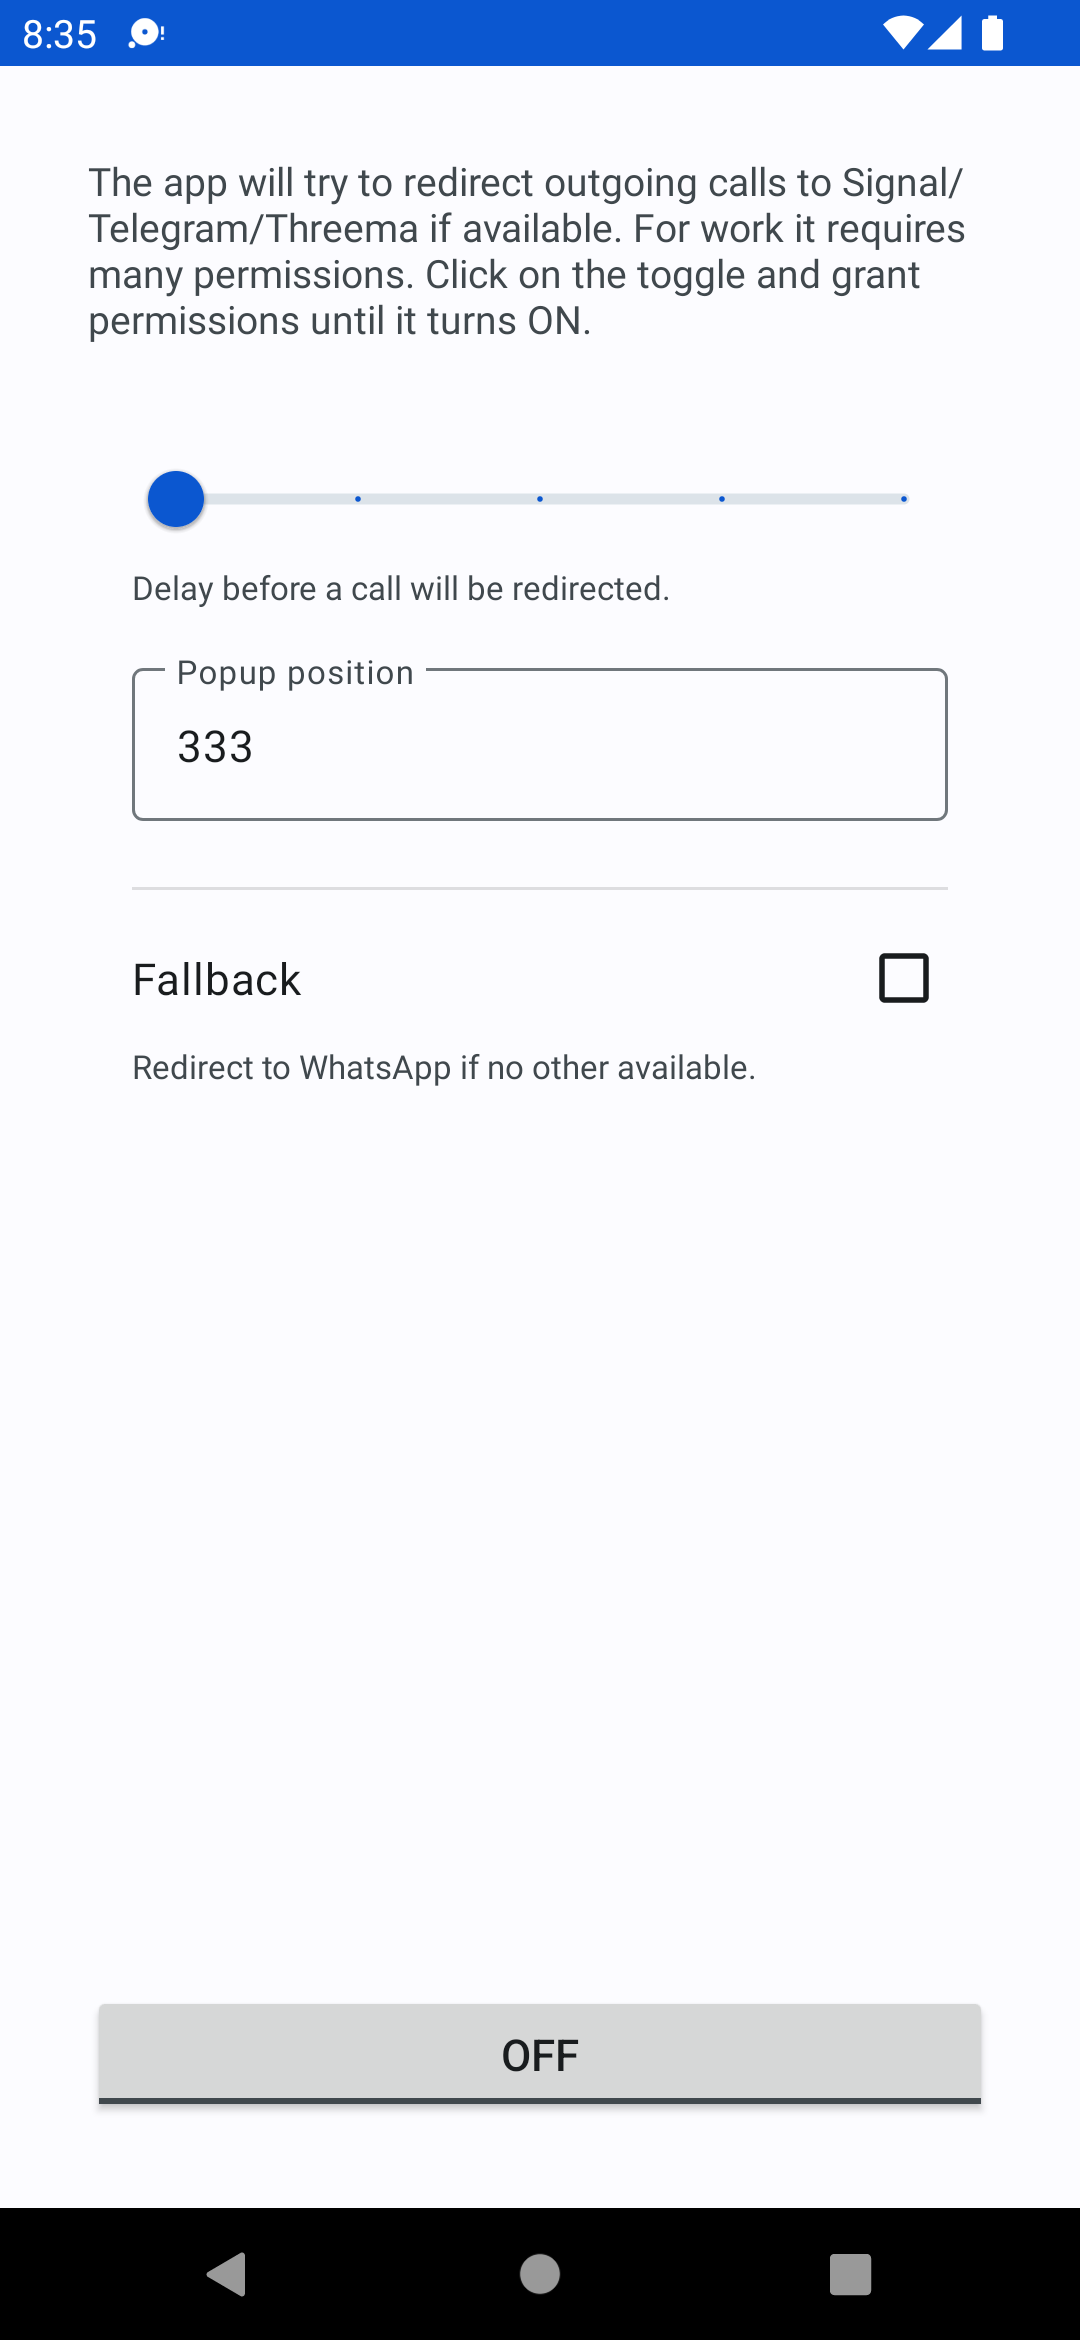
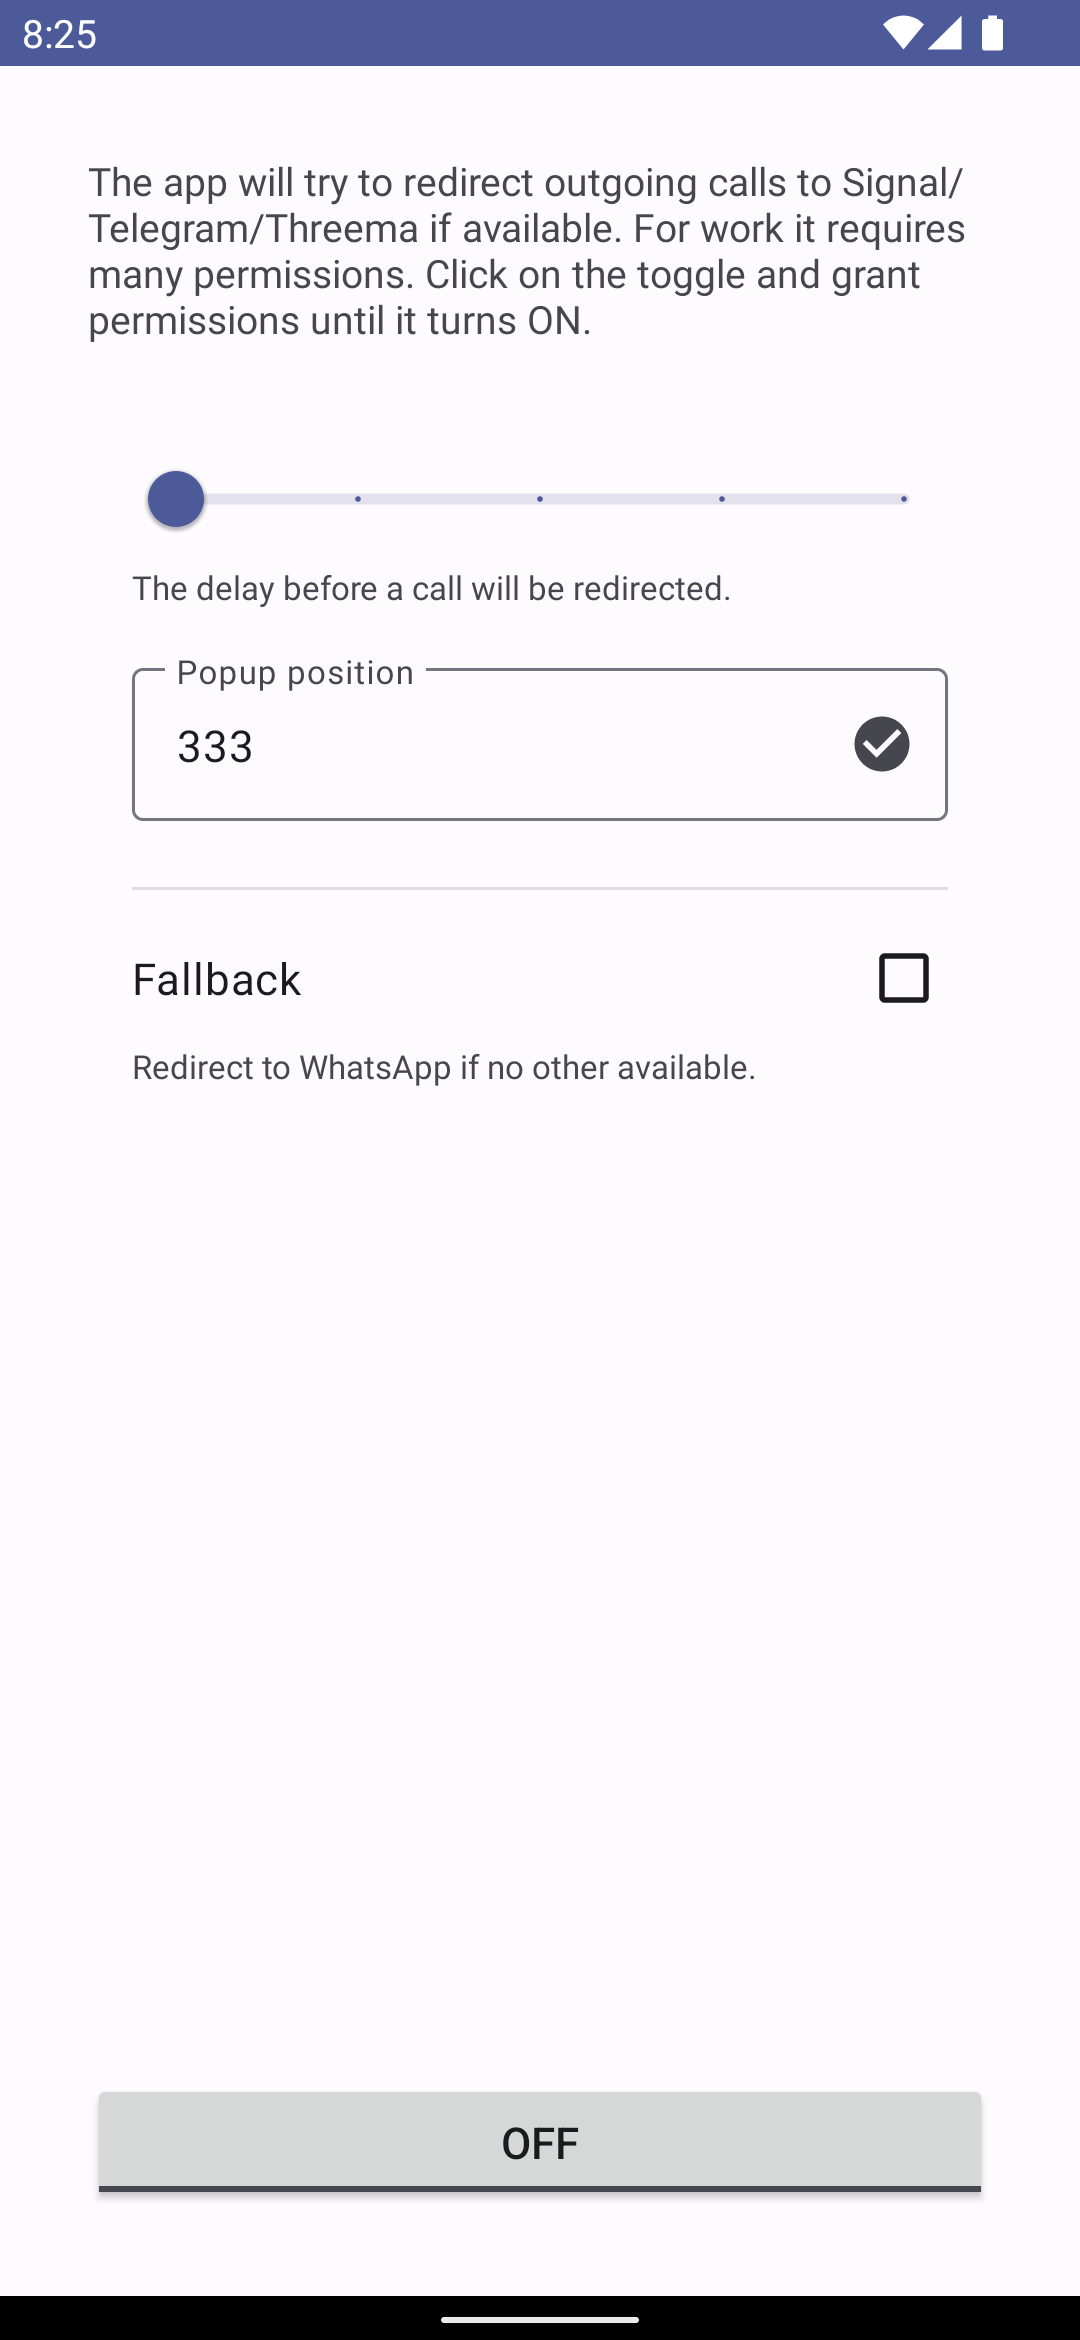
popup window preview

diff --git a/app/src/main/java/me/lucky/red/CallRedirectionService.kt b/app/src/main/java/me/lucky/red/CallRedirectionService.kt
@@ -8,6 +8,7 @@ import android.provider.ContactsContract
 import android.telecom.CallRedirectionService
 import android.telecom.PhoneAccountHandle
 import androidx.annotation.RequiresPermission
+import java.lang.ref.WeakReference
 
 class CallRedirectionService : CallRedirectionService() {
     companion object {
@@ -16,7 +17,7 @@ class CallRedirectionService : CallRedirectionService() {
         private const val TELEGRAM_MIMETYPE = "$PREFIX/vnd.org.telegram.messenger.android.call"
         private const val THREEMA_MIMETYPE = "$PREFIX/vnd.ch.threema.app.call"
         private const val WHATSAPP_MIMETYPE = "$PREFIX/vnd.com.whatsapp.voip.call"
-        private val MIMETYPES = mapOf(
+        private val MIMETYPE_TO_WEIGHT = mapOf(
             SIGNAL_MIMETYPE to 0,
             TELEGRAM_MIMETYPE to 1,
             THREEMA_MIMETYPE to 2,
@@ -25,9 +26,15 @@ class CallRedirectionService : CallRedirectionService() {
         private val FALLBACK_MIMETYPES = arrayOf(
             WHATSAPP_MIMETYPE,
         )
+        private val MIMETYPE_TO_DST_NAME = mapOf(
+            SIGNAL_MIMETYPE to R.string.destination_signal,
+            TELEGRAM_MIMETYPE to R.string.destination_telegram,
+            THREEMA_MIMETYPE to R.string.destination_threema,
+            WHATSAPP_MIMETYPE to R.string.fallback_destination_whatsapp,
+        )
     }
 
-    lateinit var prefs: Preferences
+    private lateinit var prefs: Preferences
     private lateinit var window: PopupWindow
     private var connectivityManager: ConnectivityManager? = null
 
@@ -43,7 +50,7 @@ class CallRedirectionService : CallRedirectionService() {
 
     private fun init() {
         prefs = Preferences(this)
-        window = PopupWindow(this)
+        window = PopupWindow(this, WeakReference(this))
         connectivityManager = getSystemService(ConnectivityManager::class.java)
     }
 
@@ -52,7 +59,7 @@ class CallRedirectionService : CallRedirectionService() {
         initialPhoneAccount: PhoneAccountHandle,
         allowInteractiveResponse: Boolean,
     ) {
-        if (!prefs.isServiceEnabled || !hasInternet() || !allowInteractiveResponse) {
+        if (!prefs.isEnabled || !hasInternet() || !allowInteractiveResponse) {
             placeCallUnmodified()
             return
         }
@@ -63,18 +70,12 @@ class CallRedirectionService : CallRedirectionService() {
             placeCallUnmodified()
             return
         }
-        val record = records.minByOrNull { MIMETYPES[it.mimetype] ?: 0 }
+        val record = records.minByOrNull { MIMETYPE_TO_WEIGHT[it.mimetype] ?: 0 }
         if (record == null || (record.mimetype in FALLBACK_MIMETYPES && !prefs.isFallbackChecked)) {
             placeCallUnmodified()
             return
         }
-        window.show(record.uri, when (record.mimetype) {
-            SIGNAL_MIMETYPE -> R.string.destination_signal
-            TELEGRAM_MIMETYPE -> R.string.destination_telegram
-            THREEMA_MIMETYPE -> R.string.destination_threema
-            WHATSAPP_MIMETYPE -> R.string.fallback_destination_whatsapp
-            else -> return
-        })
+        window.show(record.uri, MIMETYPE_TO_DST_NAME[record.mimetype] ?: return)
     }
 
     @RequiresPermission(Manifest.permission.READ_CONTACTS)
@@ -83,7 +84,7 @@ class CallRedirectionService : CallRedirectionService() {
         val cursor = contentResolver.query(
             Uri.withAppendedPath(
                 ContactsContract.PhoneLookup.CONTENT_FILTER_URI,
-                Uri.encode(phoneNumber)
+                Uri.encode(phoneNumber),
             ),
             arrayOf(ContactsContract.PhoneLookup._ID),
             null,
@@ -109,8 +110,8 @@ class CallRedirectionService : CallRedirectionService() {
             arrayOf(ContactsContract.Data._ID, ContactsContract.Data.MIMETYPE),
              "${ContactsContract.Data.CONTACT_ID} = ? AND " +
                      "${ContactsContract.Data.MIMETYPE} IN " +
-                     "(${MIMETYPES.keys.joinToString(",") { "?" }})",
-            arrayOf(contactId, *MIMETYPES.keys.toTypedArray()),
+                     "(${MIMETYPE_TO_WEIGHT.keys.joinToString(",") { "?" }})",
+            arrayOf(contactId, *MIMETYPE_TO_WEIGHT.keys.toTypedArray()),
             null,
         )
         cursor?.apply {

diff --git a/app/src/main/java/me/lucky/red/PopupWindow.kt b/app/src/main/java/me/lucky/red/PopupWindow.kt
@@ -1,6 +1,7 @@
 package me.lucky.red
 
 import android.Manifest
+import android.content.Context
 import android.content.Intent
 import android.graphics.PixelFormat
 import android.media.AudioManager
@@ -10,20 +11,19 @@ import android.view.LayoutInflater
 import android.view.WindowManager
 import android.widget.TextView
 import androidx.annotation.RequiresPermission
+import java.lang.ref.WeakReference
 import java.util.*
 import kotlin.concurrent.timerTask
 
-class PopupWindow(private val service: CallRedirectionService) {
-    private val windowManager = service
-        .applicationContext
-        .getSystemService(WindowManager::class.java)
-    private val audioManager = service
-        .applicationContext
-        .getSystemService(AudioManager::class.java)
+class PopupWindow(
+    private val ctx: Context,
+    private val service: WeakReference<CallRedirectionService>?,
+) {
+    private val prefs = Preferences(ctx)
+    private val windowManager = ctx.getSystemService(WindowManager::class.java)
+    private val audioManager = ctx.getSystemService(AudioManager::class.java)
     @Suppress("InflateParams")
-    private val view = LayoutInflater
-        .from(service.applicationContext)
-        .inflate(R.layout.popup, null)
+    private val view = LayoutInflater.from(ctx).inflate(R.layout.popup, null)
     private val layoutParams = WindowManager.LayoutParams().apply {
         format = PixelFormat.TRANSLUCENT
         flags = WindowManager.LayoutParams.FLAG_NOT_FOCUSABLE
@@ -31,18 +31,32 @@ class PopupWindow(private val service: CallRedirectionService) {
         gravity = Gravity.BOTTOM
         width = WindowManager.LayoutParams.WRAP_CONTENT
         height = WindowManager.LayoutParams.WRAP_CONTENT
-        y = service.prefs.popupPosition
+        y = prefs.popupPosition
     }
     private var timer: Timer? = null
 
     init {
         view.setOnClickListener {
             cancel()
-            service.placeCallUnmodified()
+            service?.get()?.placeCallUnmodified()
         }
     }
 
+    fun preview() {
+        remove()
+        layoutParams.y = prefs.popupPosition
+        val destinations = mutableListOf(
+            R.string.destination_signal,
+            R.string.destination_telegram,
+            R.string.destination_threema,
+        )
+        if (prefs.isFallbackChecked) destinations.add(R.string.fallback_destination_whatsapp)
+        setDescription(destinations.random())
+        add()
+    }
+
     fun show(uri: Uri, destinationId: Int) {
+        val service = service?.get() ?: return
         if (!remove()) {
             service.placeCallUnmodified()
             return
@@ -65,15 +79,19 @@ class PopupWindow(private val service: CallRedirectionService) {
                 return@timerTask
             }
             service.cancelCall()
-        }, service.prefs.redirectionDelay)
-        view.findViewById<TextView>(R.id.description).text = String.format(
-            service.getString(R.string.popup),
-            service.getString(destinationId),
-        )
+        }, prefs.redirectionDelay)
+        setDescription(destinationId)
         if (!add()) {
             timer?.cancel()
             service.placeCallUnmodified()
         }
+    }
+
+    private fun setDescription(id: Int) {
+        view.findViewById<TextView>(R.id.description).text = ctx.getString(
+            R.string.popup,
+            ctx.getString(id),
+        )
     }
 
     @RequiresPermission(Manifest.permission.CALL_PHONE)
@@ -81,7 +99,7 @@ class PopupWindow(private val service: CallRedirectionService) {
         Intent(Intent.ACTION_VIEW).let {
             it.data = data
             it.flags = Intent.FLAG_ACTIVITY_NEW_TASK
-            service.startActivity(it)
+            ctx.startActivity(it)
         }
     }
 

diff --git a/app/src/main/java/me/lucky/red/MainActivity.kt b/app/src/main/java/me/lucky/red/MainActivity.kt
@@ -23,6 +23,7 @@ class MainActivity : AppCompatActivity() {
 
     private lateinit var binding: ActivityMainBinding
     private lateinit var prefs: Preferences
+    private lateinit var window: PopupWindow
     private var roleManager: RoleManager? = null
 
     private val registerForCallRedirectionRole =
@@ -42,14 +43,20 @@ class MainActivity : AppCompatActivity() {
         setup()
     }
 
+    override fun onDestroy() {
+        super.onDestroy()
+        window.cancel()
+    }
+
     private fun init() {
         prefs = Preferences(this)
+        window = PopupWindow(this, null)
         roleManager = getSystemService(RoleManager::class.java)
         binding.apply {
             redirectionDelay.value = (prefs.redirectionDelay / 1000).toFloat()
             popupPosition.editText?.setText(prefs.popupPosition.toString())
             fallback.isChecked = prefs.isFallbackChecked
-            toggle.isChecked = prefs.isServiceEnabled
+            toggle.isChecked = prefs.isEnabled
         }
     }
 
@@ -60,6 +67,9 @@ class MainActivity : AppCompatActivity() {
             }
             redirectionDelay.addOnChangeListener { _, value, _ ->
                 prefs.redirectionDelay = (value * 1000).toLong()
+            }
+            popupPosition.setEndIconOnClickListener {
+                window.preview()
             }
             popupPosition.editText?.doAfterTextChanged {
                 try {
@@ -75,7 +85,7 @@ class MainActivity : AppCompatActivity() {
                     requestPermissions()
                     return@setOnCheckedChangeListener
                 }
-                prefs.isServiceEnabled = isChecked
+                prefs.isEnabled = isChecked
             }
         }
     }

diff --git a/app/src/main/java/me/lucky/red/Preferences.kt b/app/src/main/java/me/lucky/red/Preferences.kt
@@ -6,20 +6,23 @@ import androidx.preference.PreferenceManager
 
 class Preferences(ctx: Context) {
     companion object {
-        private const val SERVICE_ENABLED = "service_enabled"
+        private const val ENABLED = "enabled"
         private const val REDIRECTION_DELAY = "redirection_delay"
         private const val POPUP_POSITION = "popup_position_y"
         private const val FALLBACK_CHECKED = "fallback_checked"
 
         private const val DEFAULT_REDIRECTION_DELAY = 2000L
         private const val DEFAULT_POPUP_POSITION = 333
+
+        // migration
+        private const val SERVICE_ENABLED = "service_enabled"
     }
 
     private val prefs = PreferenceManager.getDefaultSharedPreferences(ctx)
 
-    var isServiceEnabled: Boolean
-        get() = prefs.getBoolean(SERVICE_ENABLED, false)
-        set(value) = prefs.edit { putBoolean(SERVICE_ENABLED, value) }
+    var isEnabled: Boolean
+        get() = prefs.getBoolean(ENABLED, prefs.getBoolean(SERVICE_ENABLED, false))
+        set(value) = prefs.edit { putBoolean(ENABLED, value) }
 
     var redirectionDelay: Long
         get() = prefs.getLong(REDIRECTION_DELAY, DEFAULT_REDIRECTION_DELAY)

diff --git a/README.md b/README.md
@@ -2,13 +2,10 @@
 
 Redirect outgoing calls to Signal/Telegram/Threema.
 
-[comment]: <> ([<img)
-
-[comment]: <> (     src="https://fdroid.gitlab.io/artwork/badge/get-it-on.png")
-
-[comment]: <> (     alt="Get it on F-Droid")
-
-[comment]: <> (     height="80">]&#40;https://f-droid.org/packages/me.lucky.red/&#41;)
+[<img
+     src="https://fdroid.gitlab.io/artwork/badge/get-it-on.png"
+     alt="Get it on F-Droid"
+     height="80">](https://f-droid.org/packages/me.lucky.red/)
 [<img
       src="https://play.google.com/intl/en_us/badges/images/generic/en-play-badge.png"
       alt="Get it on Google Play"
